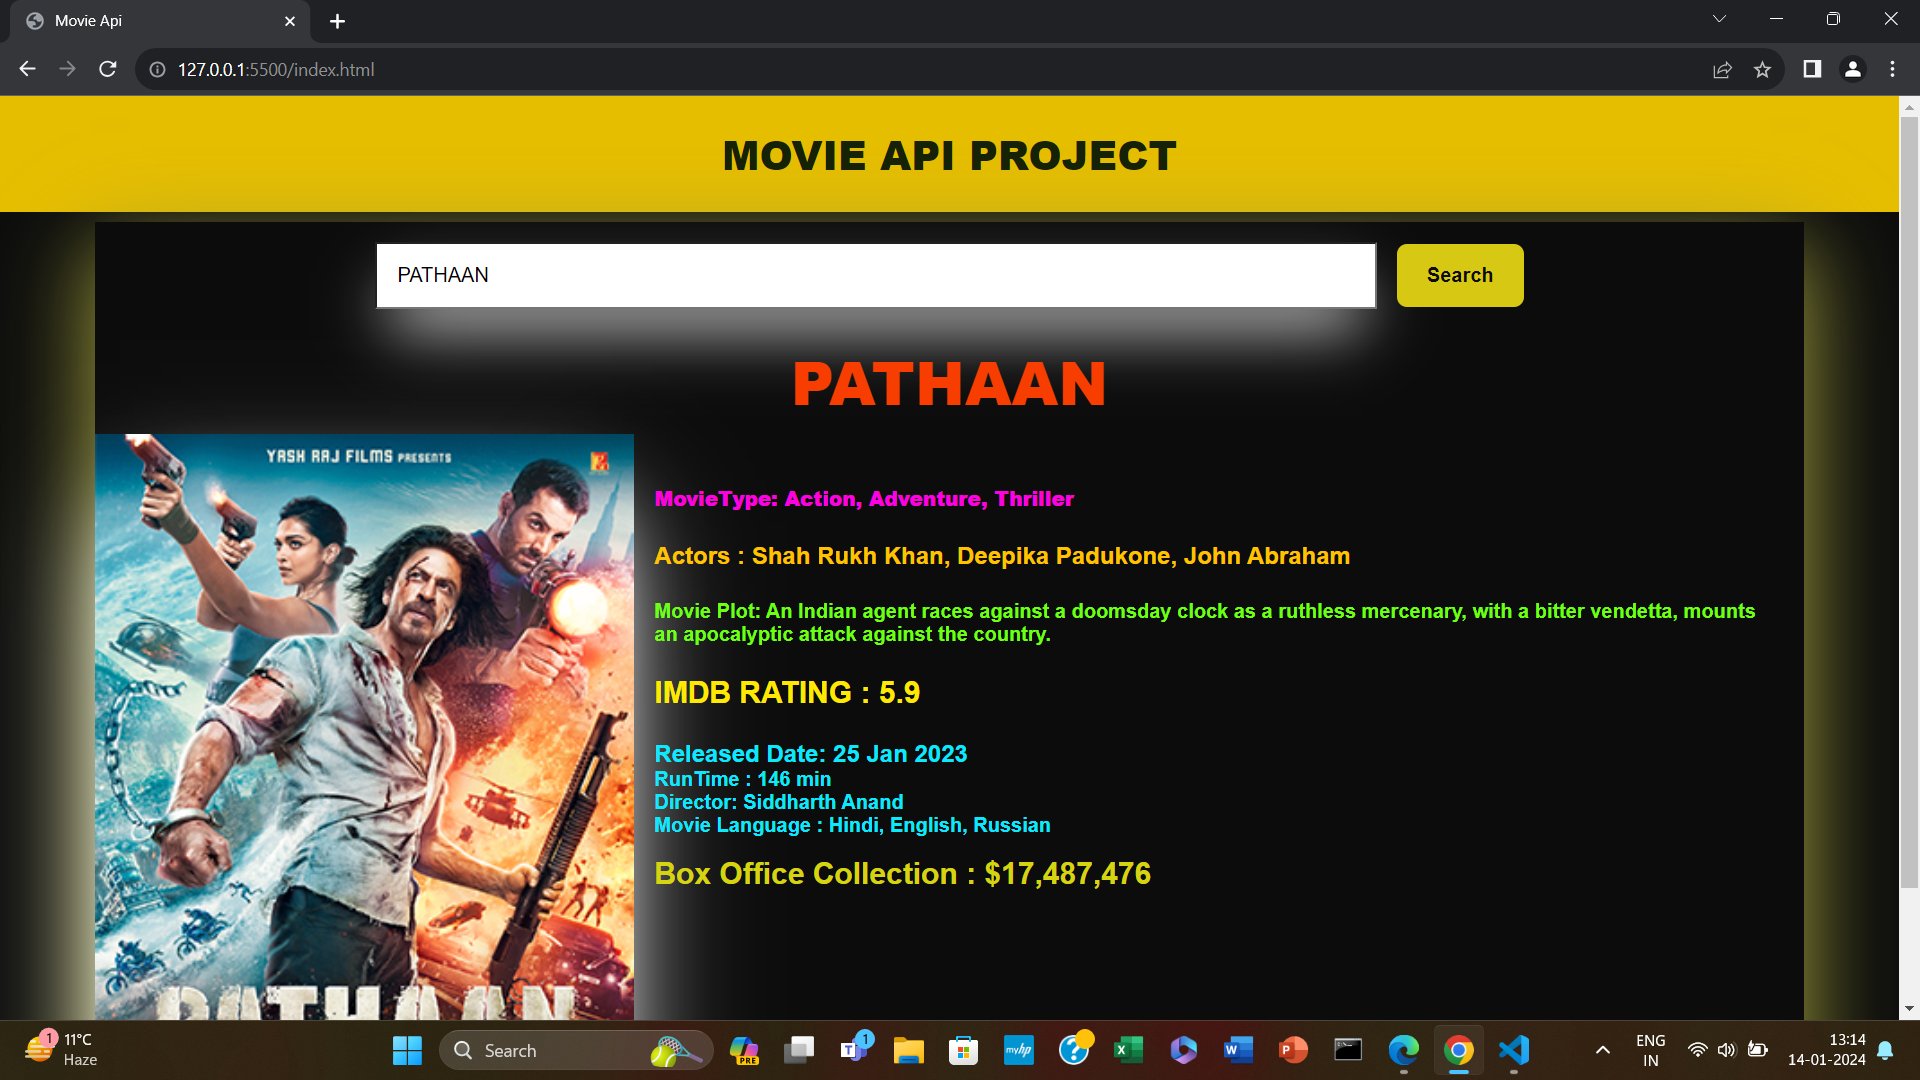
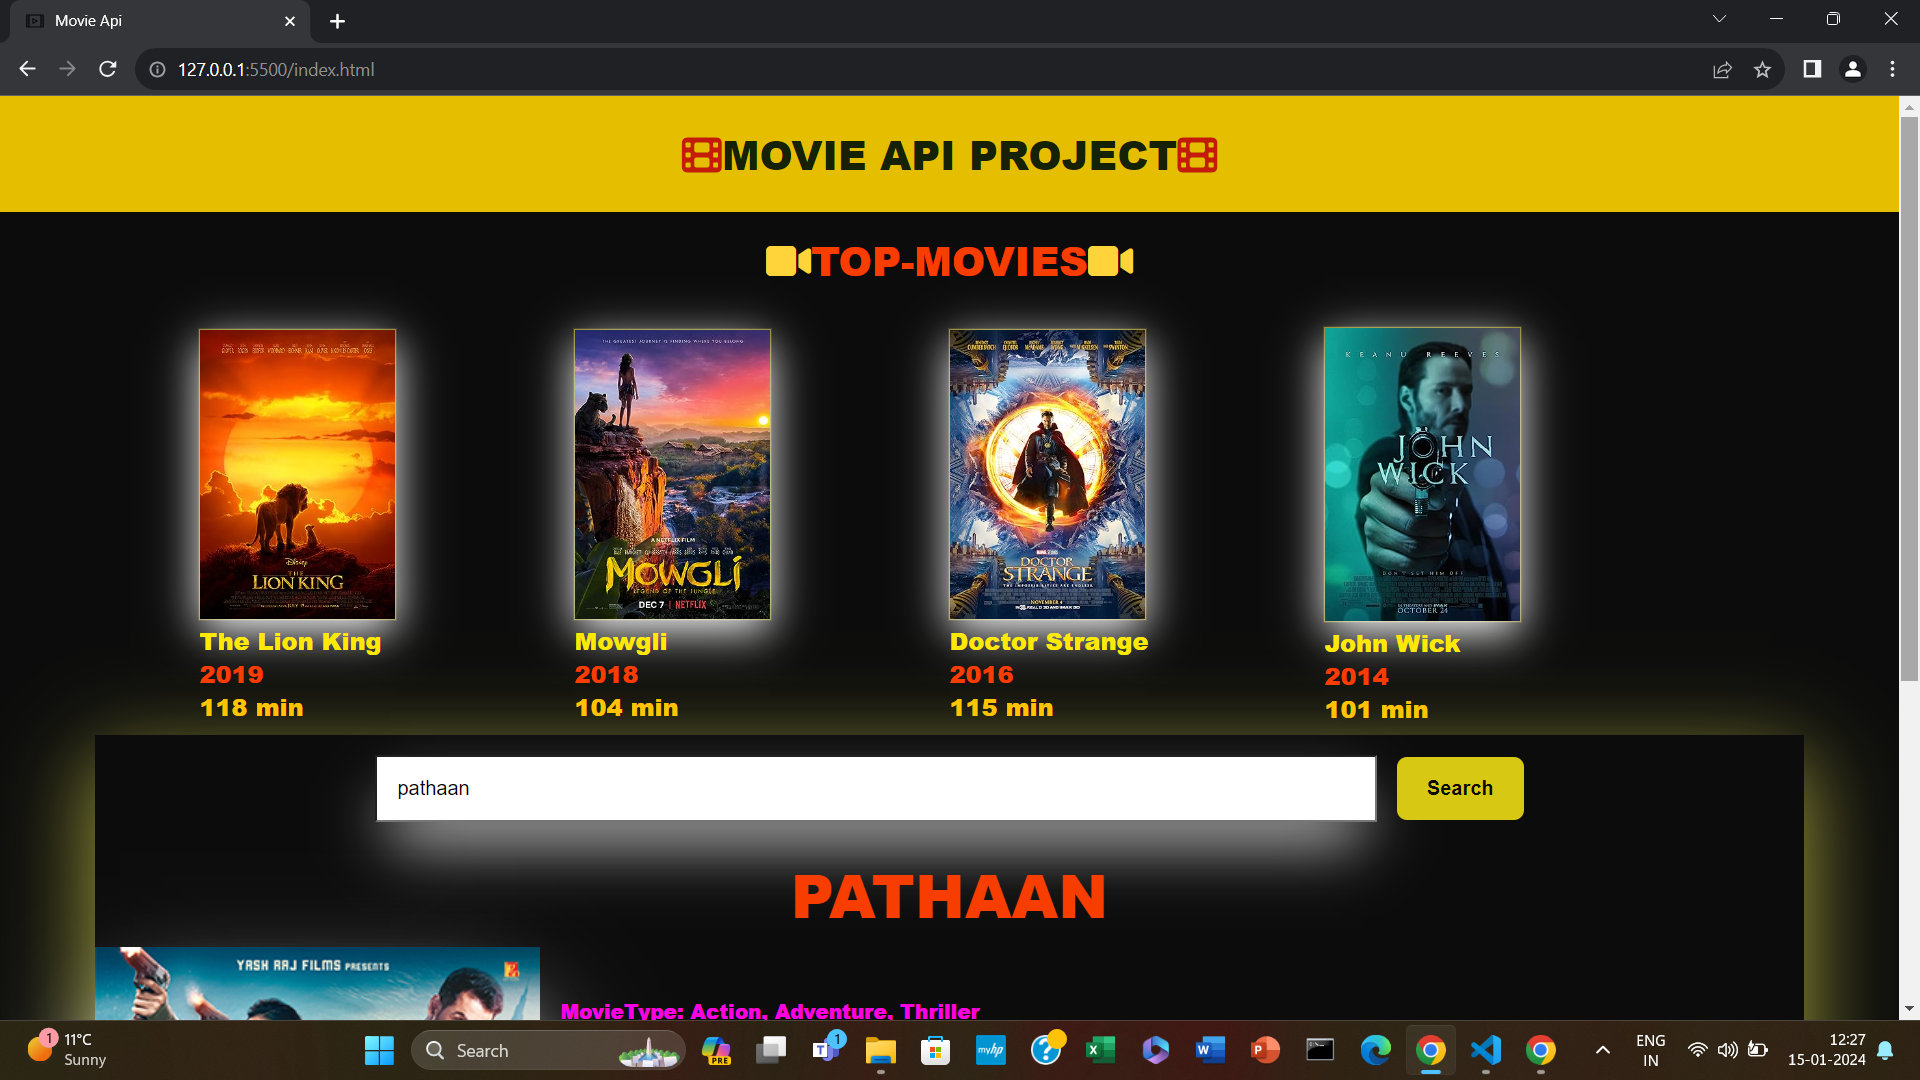
updated

diff --git a/JAVA SCRIPT PROJECTS/MOVIE API/index.html b/JAVA SCRIPT PROJECTS/MOVIE API/index.html
@@ -5,11 +5,55 @@
     <meta name="viewport" content="width=device-width, initial-scale=1.0" />
     <title>Movie Api</title>
     <link rel="stylesheet" href="./style.css" />
+    <link rel="shortcut icon" href="./IMAGES/icon.png" type="image/x-icon" />
+    <link
+    rel="stylesheet"
+    href="https://cdnjs.cloudflare.com/ajax/libs/font-awesome/6.4.2/css/all.min.css"
+    integrity="sha512-z3gLpd7yknf1YoNbCzqRKc4qyor8gaKU1qmn+CShxbuBusANI9QpRohGBreCFkKxLhei6S9CQXFEbbKuqLg0DA=="
+    crossorigin="anonymous"
+    referrerpolicy="no-referrer"
+  />
+  <link
+    rel="stylesheet"
+    href="https://cdnjs.cloudflare.com/ajax/libs/font-awesome/6.4.2/css/brands.min.css"
+    integrity="sha512-W/zrbCncQnky/EzL+/AYwTtosvrM+YG/V6piQLSe2HuKS6cmbw89kjYkp3tWFn1dkWV7L1ruvJyKbLz73Vlgfg=="
+    crossorigin="anonymous"
+    referrerpolicy="no-referrer"
+  />
     <script src="./script.js" defer></script>
   </head>
   <body>
    
-    <h1 class="movieHead">Movie Api Project</h1>
+    <h1 class="movieHead"><i class="fa-solid fa-film" style="color: #c51b0b;"></i>Movie Api Project<i class="fa-solid fa-film" style="color: #c51b0b;"></i></h1>
+    <h1 class="topMovieHead"><i class="fa-solid fa-video" style="color: #FFD43B;"></i>TOP-MOVIES<i class="fa-solid fa-video" style="color: #FFD43B;"></i></h1>
+    <section class="top-Movies">
+       
+        <div class="topMovieList">
+          <img src="https://m.media-amazon.com/images/M/MV5BMjIwMjE1Nzc4NV5BMl5BanBnXkFtZTgwNDg4OTA1NzM@._V1_SX300.jpg" class="topMovie1" alt="movie-1">
+          <p class="topMovieTitle">The Lion King</p>
+          <p class="topMovieYear">2019</p>
+          <p class="topMovieRunTime">118 min</p>
+        </div>
+        <div class="topMovieList">
+          <img src="https://m.media-amazon.com/images/M/MV5BMjMzODc2NzU5MV5BMl5BanBnXkFtZTgwNTMwMTE3NjM@._V1_SX300.jpg" class="topMovie1" alt="movie-1">
+          <p class="topMovieTitle">Mowgli</p>
+          <p class="topMovieYear">2018</p>
+          <p class="topMovieRunTime">104 min</p>
+        </div>
+        <div class="topMovieList">
+          <img src="https://m.media-amazon.com/images/M/MV5BNjgwNzAzNjk1Nl5BMl5BanBnXkFtZTgwMzQ2NjI1OTE@._V1_SX300.jpg" class="topMovie1" alt="movie-1">
+          <p class="topMovieTitle">Doctor Strange</p>
+          <p class="topMovieYear">2016</p>
+          <p class="topMovieRunTime">115 min</p>
+        </div>
+        <div class="topMovieList">
+          <img src="https://m.media-amazon.com/images/M/MV5BMTU2NjA1ODgzMF5BMl5BanBnXkFtZTgwMTM2MTI4MjE@._V1_SX300.jpg" class="topMovie1" alt="movie-1">
+          <p class="topMovieTitle">John Wick</p>
+          <p class="topMovieYear">2014</p>
+          <p class="topMovieRunTime">101 min</p>
+        </div>
+    
+    </section>
     <section class="movieContainer">
       
       <div class="movieContainerInput">

diff --git a/JAVA SCRIPT PROJECTS/MOVIE API/style.css b/JAVA SCRIPT PROJECTS/MOVIE API/style.css
@@ -10,6 +10,42 @@ body{
     color: #fff;
     
 }
+.top-Movies{
+    width: 100%;
+    display: flex;
+    margin-top: 1rem;
+    justify-content: center;
+    align-items: center;
+    flex-wrap: wrap;
+}
+.topMovie1{
+    width: 52%;
+    box-shadow: #fff 0px 10px 36px 0px, rgb(133 125 26) 0px 0px 0px 1px;
+}
+.topMovieTitle{
+    font-size: 1.2rem;
+    font-weight: 900;
+    color: #ffe900;
+}
+.topMovieYear{
+    font-size: 1.2rem;
+    font-weight: 900; 
+    color: #f73e00;
+}
+.topMovieRunTime{
+    font-size: 1.2rem;
+    font-weight: 900; 
+    color: #ffc300;
+}
+.topMovieHead{
+    text-align: center;
+    color: #f73e00;
+    font-weight: 900;
+    padding: 1rem;
+}
+/* .topMovieList{
+    width: 20%;
+} */
 .movieHead{
     text-align: center;
     padding: 1.5rem;
@@ -61,7 +97,7 @@ body{
     font-weight: 900;
 }
 .movieImage{
-    width: 42%;
+    width: 32%;
     /* padding: 1rem; */
     box-shadow: #fff 0px 1px 1px 0px inset, #fff 0px 50px 100px -20px, #fff 0px 30px 60px -30px;
     

diff --git a/JAVA SCRIPT PROJECTS/MOVIE API/script.js b/JAVA SCRIPT PROJECTS/MOVIE API/script.js
@@ -56,6 +56,12 @@ function getMovie(movie){
   })
 }
 
+
+
+
+
+
+
 //de06f04c0473e3ed3ca9d7fd695e6dc8
 
 

diff --git a/readme.md b/readme.md
@@ -27,3 +27,7 @@
 1. `PERSONAL INFORMATION STORAGE APP USING LOCAL STORAGE` :open_file_folder::arrow_right:[FOLDER LINK](https://github.com/kapilsarkar/ADVANCE-JAVASCRIPT/tree/main/JAVA%20SCRIPT%20PROJECTS/PERSONAL%20INFORMATION%20STORE):red_circle::arrow_right:[LIVE LINK](https://perstoreappkapil.netlify.app/)
 
 1. `E-COMMERCE WEBPAGE USING PRODUCT API` :open_file_folder::arrow_right:[FOLDER LINK](https://github.com/kapilsarkar/ADVANCE-JAVASCRIPT/tree/main/JAVA%20SCRIPT%20PROJECTS/PRODUCT%20API%20PROJECT):red_circle::arrow_right:[LIVE LINK](https://productapikapilsarkar.netlify.app/)
+
+
+
+1. `MOVIE API PROJECT USING OMDB API` :open_file_folder::arrow_right:[FOLDER LINK](https://github.com/kapilsarkar/ADVANCE-JAVASCRIPT/tree/main/JAVA%20SCRIPT%20PROJECTS/MOVIE%20API):red_circle::arrow_right:[LIVE LINK](https://kapilmovieproject.netlify.app/)

diff --git a/JAVA SCRIPT PROJECTS/MOVIE API/readme.md b/JAVA SCRIPT PROJECTS/MOVIE API/readme.md
@@ -4,3 +4,4 @@
 
 ![IMG2](./IMAGES/2.png)
 
+[LIVE LINK](https://kapilmovieproject.netlify.app/)
